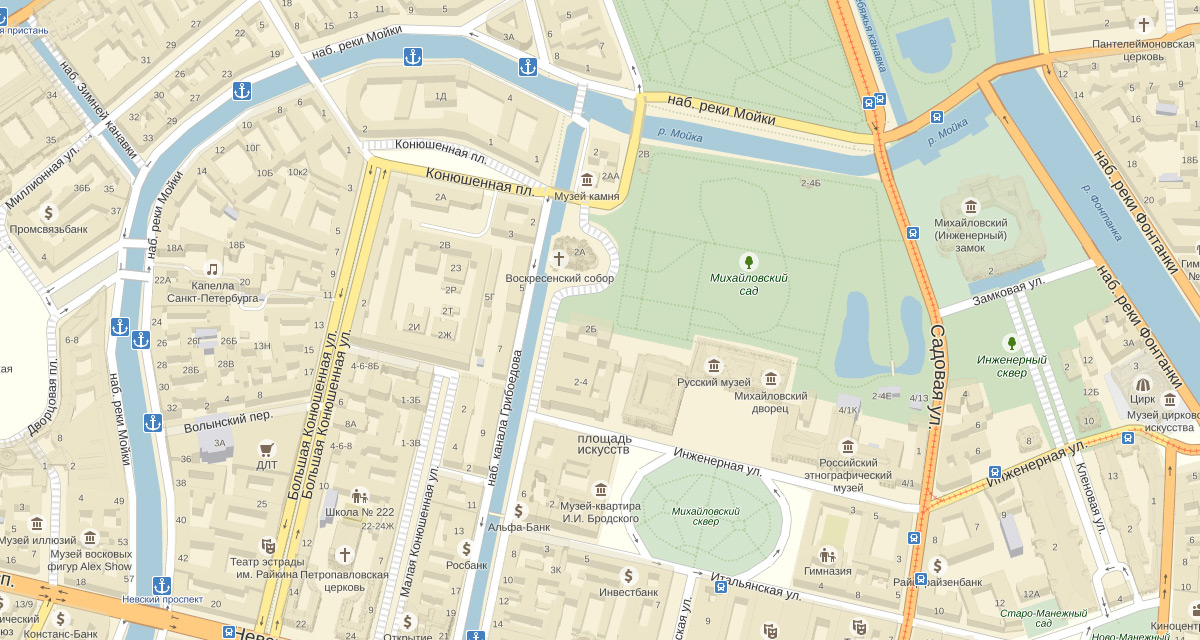
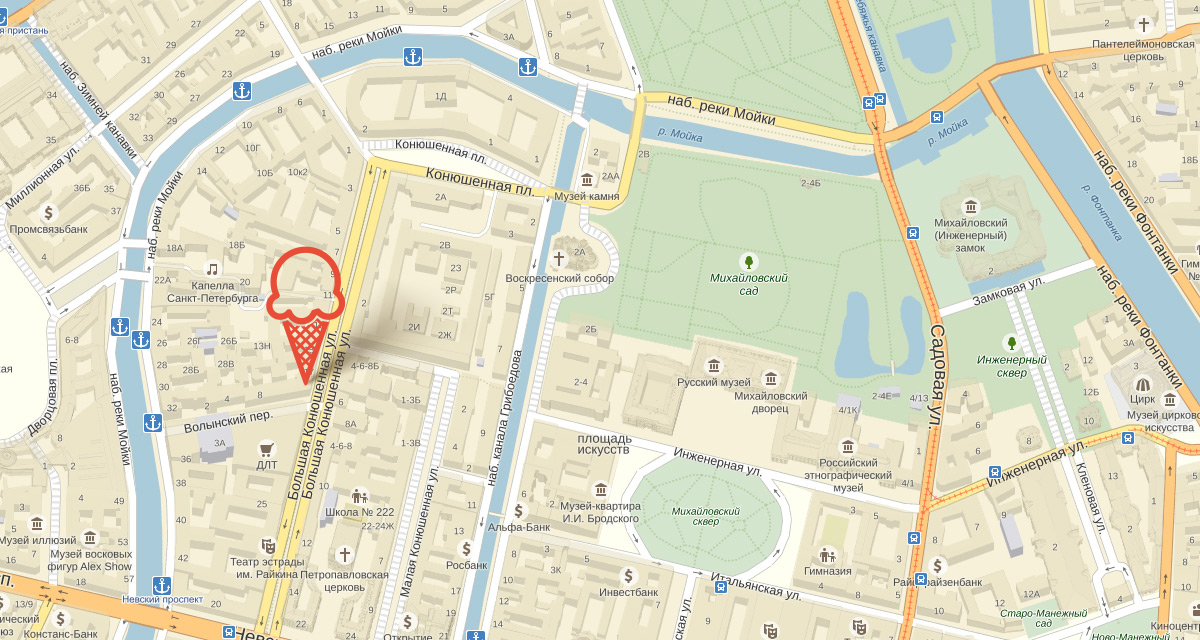
Add interactive map

Changed region(s): [[0.2158, 0.375, 0.37, 0.5938]]

diff --git a/index.html b/index.html
@@ -220,6 +220,8 @@
     </div>
 
     <section class="address">
+      <iframe src="https://www.google.com/maps/embed?pb=!1m16!1m12!1m3!1d1998.6073709284672!2d30.31928512731339!3d59.93865702033412!2m3!1f0!2f0!3f0!3m2!1i1024!2i768!4f13.1!2m1!1z0JHQvtC70YzRiNCw0Y8g0JrQvtC90Y7RiNC10L3QvdCw0Y8g0YPQu9C40YbQsCwgMTkvOA!5e0!3m2!1sru!2sru!4v1487183484036" width="1200" height="430" frameborder="0" style="border:0" allowfullscreen></iframe>
+      
       <address class="address-details"> 
         <p>Адрес главного офиса и офлайн магазина:</p>
         <strong>
@@ -266,7 +268,7 @@
     <section class="feedback">
       <strong>Мы обязательно вам ответим!</strong>
       <form class="feedback-form" action="https://echo.htmlacademy.ru" method="post">
-        <input id="feedback-input-name" type="text" name="name" value="" required>
+        <input id="feedback-input-name" type="text" name="name" value="" required autofocus>
         <label for="feedback-input-name">Как вас зовут?</label>
         <input id="feedback-input-email" type="text" name="email" value="" required>
         <label for="feedback-input-email">Ваша почта для ответа?</label>
@@ -280,6 +282,7 @@
     
   </div>
   <div class="modal-overlay"></div>
+  <script type="text/javascript" charset="utf-8" async src="https://api-maps.yandex.ru/services/constructor/1.0/js/?sid=kQpQLKE6my37CkiRX6w-sCAnkFCZ_CXc&amp;width=1200&amp;height=430&amp;lang=ru_RU&amp;sourceType=constructor&amp;scroll=true"></script>
   <script type="text/javascript" src="js/script.js"></script>
 </body>
 </html>

diff --git a/css/style.css b/css/style.css
@@ -1356,17 +1356,6 @@ a.navbar-link.link-active::before  {
   background-position: 50% 51%;
 }
 
-.address::before {
-  content: "";
-  position: absolute;
-  min-width: 200px;
-  height: 141px;
-  background-image: url("../img/pin.png");
-  background-repeat: no-repeat;
-  top: 32%;
-  left: 22%;
-}
-
 .address-details {
   position: absolute;
   width: 276px;
@@ -1614,6 +1603,8 @@ a.navbar-link.link-active::before  {
 
 
 /*Обратная связь*/
+
+
 .feedback {
   display: none;
   position: absolute;
@@ -1626,7 +1617,11 @@ a.navbar-link.link-active::before  {
   padding-left: 24px;
   background-color: #f8f7f4;
   border-radius: 10px;
-  z-index: 11;
+  z-index: 12;
+}
+
+.feedback-show {
+  display: block;
 }
 
 .feedback-close {
@@ -1865,12 +1860,14 @@ a.navbar-link.link-active::before  {
 .feedback strong::before {
   content: "";
   position: absolute;
-  width: 10px;
-  height: 10px;
-  background-color: #ffffff;
+  width: 0;
+  height: 0;
+  border-style: solid;
+  border-width: 0 0 10px 10px;
+  border-color: transparent transparent #ffffff transparent;
   top: 329px;
   right: -80px;
-  z-index: 7;
+  z-index: 13;
 }
 
 .modal-overlay {
@@ -1882,6 +1879,10 @@ a.navbar-link.link-active::before  {
   width: 100%;
   height: 100%;
   background: rgba(0, 0, 0, 0.5);
+}
+
+.modal-overlay-show {
+  display: block;
 }
 
 

diff --git a/js/script.js b/js/script.js
@@ -1,0 +1,28 @@
+var link = document.querySelector(".btn-feedback");
+
+var popup = document.querySelector(".feedback");
+
+var overlay = document.querySelector(".modal-overlay");
+
+var close = popup.querySelector(".feedback-close");
+
+link.addEventListener("click", function(event) {
+  event.preventDefault();
+  popup.classList.add("feedback-show");
+  overlay.classList.add("modal-overlay-show");
+});
+
+close.addEventListener("click", function(event) {
+  event.preventDefault();
+  popup.classList.remove("feedback-show");
+  overlay.classList.remove("modal-overlay-show");
+});
+
+window.addEventListener("keydown", function(event) {
+  if (event.keyCode === 27) {
+    if (popup.classList.contains("feedback-show")) {
+      popup.classList.remove("feedback-show");
+      overlay.classList.remove("modal-overlay-show");
+    }
+  }
+});
